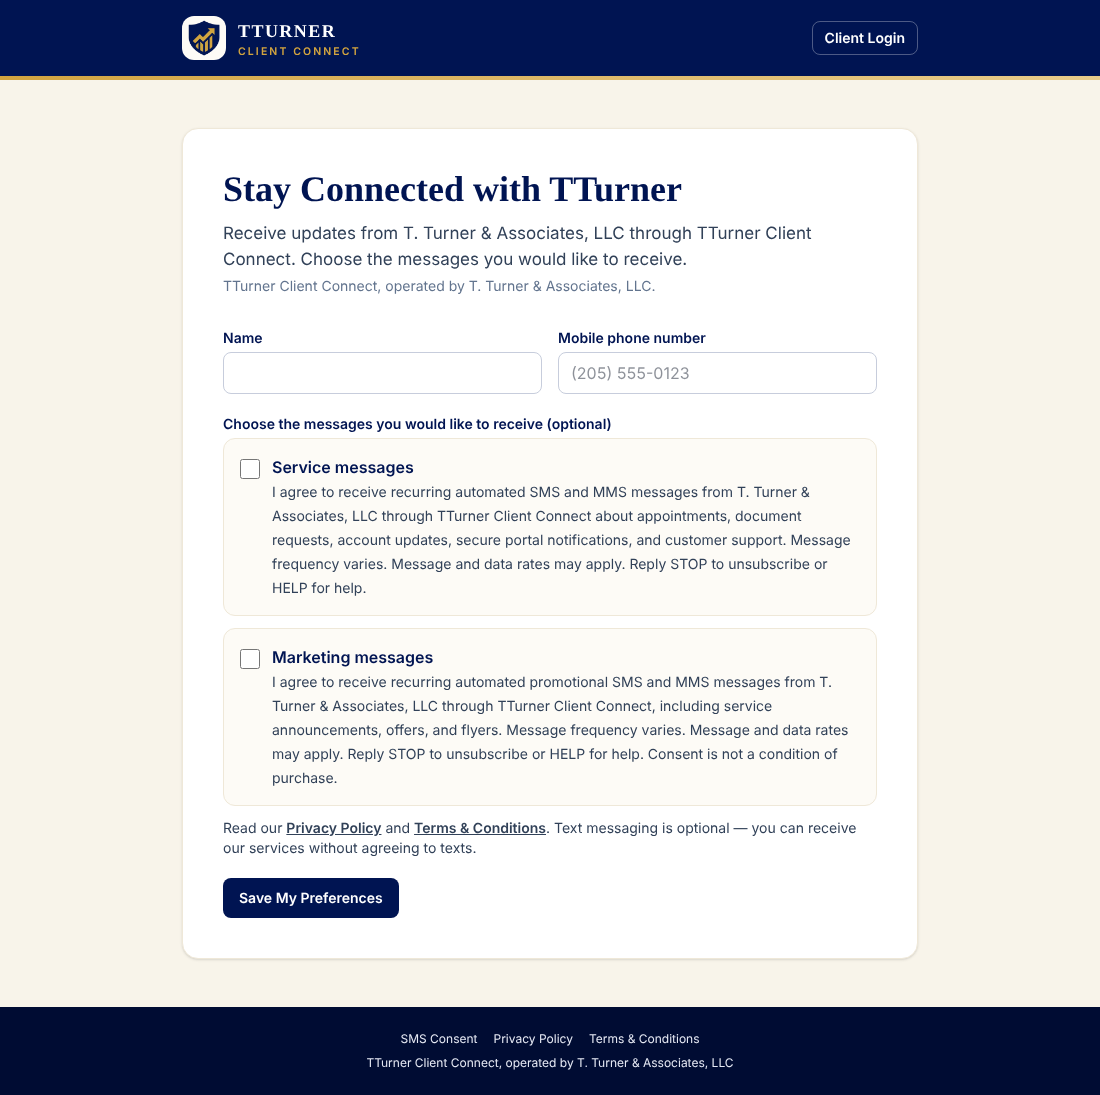
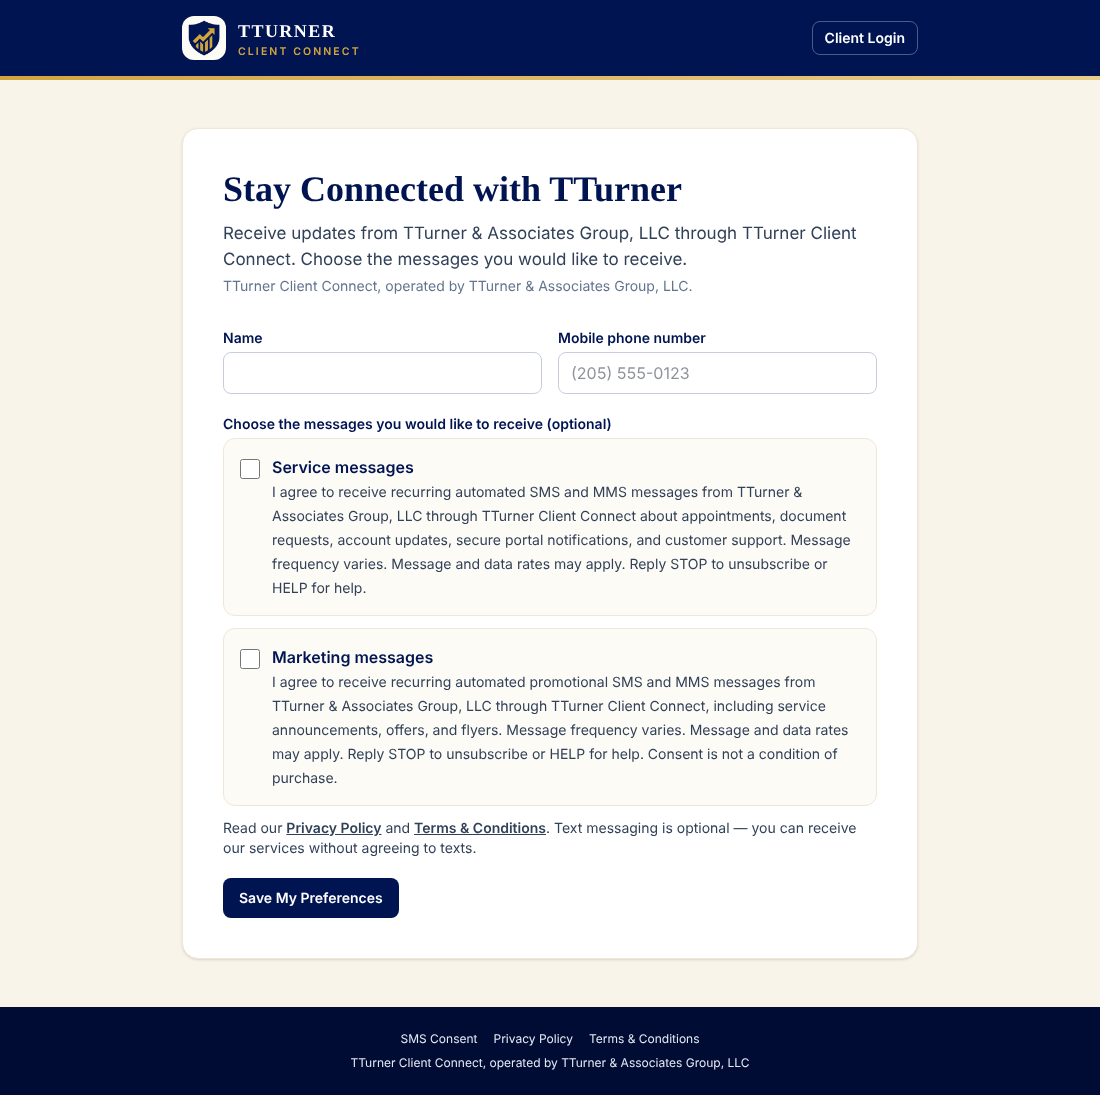
Use the registered legal name TTurner & Associates Group, LLC
The owner confirmed this is the name on the EIN and Secretary of State
filing. The platform is identified as "TTurner Client Connect, operated by
TTurner & Associates Group, LLC" on the consent form, Privacy Policy,
Terms and emails; text-message prefixes use "TTurner & Associates Group".
The SMS consent wording changed, so its version moves to v2, and the
opt-in proof screenshot is regenerated.

Claude-Session: https://claude.ai/code/session_01PcrZVDE3dtH8yXi9eSsfa3

diff --git a/tests/staff-invites.test.ts b/tests/staff-invites.test.ts
@@ -28,7 +28,7 @@ beforeEach(async () => {
   sent = [];
   reply = () => new Response(JSON.stringify({ id: `re_${++n}` }), { status: 200 });
   vi.stubEnv("RESEND_API_KEY", "re_test_key");
-  vi.stubEnv("EMAIL_FROM_ADDRESS", "T. Turner & Associates, LLC <invites@mail.example.com>");
+  vi.stubEnv("EMAIL_FROM_ADDRESS", "TTurner & Associates Group, LLC <invites@mail.example.com>");
   vi.stubEnv("APP_URL", "https://crm.example.com");
   vi.stubGlobal("fetch", async (url: string, init: RequestInit) => {
     await new Promise((r) => setTimeout(r, 5));
@@ -51,10 +51,10 @@ describe("staff invitation emails", () => {
     const mail = sent[0];
     expect(mail.url).toBe("https://api.resend.com/emails");
     expect(mail.body.to).toEqual(["daria.new@example.com"]);
-    expect(mail.body.from).toContain("T. Turner & Associates, LLC");
+    expect(mail.body.from).toContain("TTurner & Associates Group, LLC");
     expect(mail.body.subject).toBe("Your staff invitation to TTurner Client Connect");
     expect(mail.body.html).toContain("Create Your Staff Account");
-    expect(mail.body.html).toContain("T. Turner &amp; Associates, LLC");
+    expect(mail.body.html).toContain("TTurner &amp; Associates Group, LLC");
     expect(mail.body.html).toContain("https://crm.example.com/staff/invite/");
     expect(mail.body.tags).toEqual([{ name: "category", value: "staff_invitation" }]);
     expect(mail.headers["Idempotency-Key"]).toBe(`staff-invite/${out.inviteId}`);
@@ -279,6 +279,6 @@ describe("staff invitation emails", () => {
     expect(mail.html).toContain("Daria &lt;b&gt;");
     expect(mail.html).toContain("Create Your Staff Account");
     expect(mail.text).toContain("November 5, 2026");
-    expect(mail.text).toContain("T. Turner & Associates, LLC");
+    expect(mail.text).toContain("TTurner & Associates Group, LLC");
   });
 });

diff --git a/src/lib/business.ts b/src/lib/business.ts
@@ -4,13 +4,13 @@
 // items still need confirmation.
 
 export const BUSINESS = {
-  // Existing legal business name (confirmed by the owner).
-  legalName: "T. Turner & Associates, LLC",
-  // How messages identify the sender (e.g. "T. Turner & Associates: …").
-  shortName: "T. Turner & Associates",
+  // Legal business name as on the EIN and Secretary of State filing (confirmed by the owner).
+  legalName: "TTurner & Associates Group, LLC",
+  // How messages identify the sender (e.g. "TTurner & Associates Group: …").
+  shortName: "TTurner & Associates Group",
   platformName: "TTurner Client Connect",
   // How the platform is identified on the consent form, Privacy Policy and Terms.
-  platformIdentity: "TTurner Client Connect, operated by T. Turner & Associates, LLC",
+  platformIdentity: "TTurner Client Connect, operated by TTurner & Associates Group, LLC",
   officePhoneDisplay: "205-659-5448",
   officePhoneTel: "+12056595448",
 } as const;
@@ -20,7 +20,7 @@ export const LEGAL_EFFECTIVE_DATE = "October 29, 2026";
 
 // Exact consent wording. Any change must get a new version so stored
 // consents always point at the text the person actually saw.
-export const SMS_CONSENT_VERSION = "sms-consent-2026-10-29-v1";
+export const SMS_CONSENT_VERSION = "sms-consent-2026-10-29-v2";
 
 export const SMS_CONSENT_TEXT = {
   SERVICE: `I agree to receive recurring automated SMS and MMS messages from ${BUSINESS.legalName} through ${BUSINESS.platformName} about appointments, document requests, account updates, secure portal notifications, and customer support. Message frequency varies. Message and data rates may apply. Reply STOP to unsubscribe or HELP for help.`,

diff --git a/src/app/client/(secure)/messages/page.tsx b/src/app/client/(secure)/messages/page.tsx
@@ -41,7 +41,7 @@ export default async function PortalMessages({ searchParams }: { searchParams: P
 
   return (
     <>
-      <PageHeader title="Messages" subtitle="Secure messages with T. Turner & Associates." />
+      <PageHeader title="Messages" subtitle="Secure messages with TTurner & Associates Group." />
       <div className="grid gap-4 lg:grid-cols-3">
         <div className="space-y-2">
           <Link href={`/client/messages${q}`} className="block rounded-lg border border-navy-100 bg-white px-3 py-2 text-sm font-semibold text-navy-900">+ New message</Link>
@@ -73,7 +73,7 @@ export default async function PortalMessages({ searchParams }: { searchParams: P
                       {m.attachments.map((a) => (
                         <a key={a.id} className={`mt-1 block text-sm underline ${mine ? "text-gold-300" : ""}`} href={`/api/documents/${downloadToken(a.id, { portalUserId: user.id })}`} target="_blank" rel="noopener">📎 {a.title}</a>
                       ))}
-                      <p className={`mt-1 text-xs ${mine ? "text-navy-100" : "text-slate-500"}`}>{mine ? m.portalAuthor?.name ?? "You" : m.staffAuthor?.name ?? "T. Turner & Associates"} · {fmtDateTime(m.createdAt)}</p>
+                      <p className={`mt-1 text-xs ${mine ? "text-navy-100" : "text-slate-500"}`}>{mine ? m.portalAuthor?.name ?? "You" : m.staffAuthor?.name ?? "TTurner & Associates Group"} · {fmtDateTime(m.createdAt)}</p>
                     </li>
                   );
                 })}

diff --git a/src/lib/services/messaging.ts b/src/lib/services/messaging.ts
@@ -85,7 +85,7 @@ export async function staffSendMessage(
   const message = await prisma.$transaction(async (tx) => {
     if (!conversationId) {
       const convo = await tx.conversation.create({
-        data: { clientId: input.clientId, subject: input.subject?.trim().slice(0, 200) || "Message from T. Turner & Associates", assignedToId: actor.id, periodId: input.periodId ?? null },
+        data: { clientId: input.clientId, subject: input.subject?.trim().slice(0, 200) || "Message from TTurner & Associates Group", assignedToId: actor.id, periodId: input.periodId ?? null },
       });
       conversationId = convo.id;
     }
@@ -120,7 +120,7 @@ export async function staffSendMessage(
   } else if (input.channel === "PORTAL") {
     await notifyMessage(input.clientId, message.id);
   } else if (input.channel === "EMAIL") {
-    const ok = await sendTransactionalEmail(client.emailNormalized!, input.subject?.trim() || "A message from T. Turner & Associates", body);
+    const ok = await sendTransactionalEmail(client.emailNormalized!, input.subject?.trim() || "A message from TTurner & Associates Group", body);
     await prisma.message.update({ where: { id: message.id }, data: ok ? { status: "PROVIDER_ACCEPTED" } : { status: "FAILED", errorDetail: "Email provider rejected the message" } });
   } else {
     // Text replies go through the campaign/messaging queue in the next stage;

diff --git a/src/app/(auth)/welcome/page.tsx b/src/app/(auth)/welcome/page.tsx
@@ -11,7 +11,7 @@ export default async function Welcome() {
   return (
     <>
       <h1 className="text-center text-2xl font-bold sm:text-3xl">Welcome to TTurner Client Connect</h1>
-      <p className="mb-7 mt-2 text-center text-[15px] text-slate-600">Secure communication with T. Turner &amp; Associates, LLC. Please choose how you&apos;re signing in.</p>
+      <p className="mb-7 mt-2 text-center text-[15px] text-slate-600">Secure communication with TTurner &amp; Associates Group, LLC. Please choose how you&apos;re signing in.</p>
       <div className="space-y-4">
         <Link
           href={client ? "/client" : "/client/login"}
@@ -31,7 +31,7 @@ export default async function Welcome() {
           <Briefcase className="size-8 shrink-0 text-navy-800" aria-hidden />
           <span className="flex-1">
             <span className="block font-serif text-xl font-semibold">{staff ? "Continue to the CRM" : "Staff Login"}</span>
-            <span className="text-sm text-slate-600">For T. Turner &amp; Associates team members</span>
+            <span className="text-sm text-slate-600">For TTurner &amp; Associates Group team members</span>
           </span>
           <span aria-hidden className="text-2xl">→</span>
         </Link>

diff --git a/src/components/portal/home-view.tsx b/src/components/portal/home-view.tsx
@@ -36,7 +36,7 @@ export function PortalHomeView({ data, linkFor, q, readOnly }: { data: Home; lin
         <Link href={`/client/bookkeeping${q}`} className="rounded-2xl border border-ivory-200 border-t-4 border-t-gold-500 bg-white p-4 shadow-sm"><p className="text-sm text-slate-600">Requested from you</p><p className="font-serif text-3xl font-bold text-navy-900">{data.requests.length}</p></Link>
         <Link href={`/client/contracts${q}`} className="rounded-2xl border border-ivory-200 border-t-4 border-t-gold-500 bg-white p-4 shadow-sm"><p className="text-sm text-slate-600">To sign or complete</p><p className="font-serif text-3xl font-bold text-navy-900">{data.contracts.length + data.signatures.length}</p></Link>
       </div>
-      {nothing && <EmptyState title="You're all caught up">New messages, documents and requests from T. Turner &amp; Associates will appear here.</EmptyState>}
+      {nothing && <EmptyState title="You're all caught up">New messages, documents and requests from TTurner &amp; Associates Group will appear here.</EmptyState>}
       <div className="grid gap-4 lg:grid-cols-2">
         {data.updates.length > 0 && (
           <Card title="Updates & announcements" className="lg:col-span-2">

diff --git a/src/lib/services/notifications.ts b/src/lib/services/notifications.ts
@@ -26,10 +26,10 @@ export function notificationText(kind: string) {
   const line = TEXT[kind] ?? "There's something new in your client portal";
   return {
     heading: line,
-    line: `${line} in your T. Turner & Associates client portal.`,
-    subject: `${line} — T. Turner & Associates`,
-    body: `${line} in your T. Turner & Associates client portal.\n\nSign in securely to view it: ${appUrl()}/client\n\nFor your privacy, we never include account details or tax documents in emails or texts.`,
-    sms: `T. Turner & Associates: ${line} in your client portal. Sign in: ${appUrl()}/client Reply STOP to opt out, HELP for help.`,
+    line: `${line} in your TTurner & Associates Group client portal.`,
+    subject: `${line} — TTurner & Associates Group`,
+    body: `${line} in your TTurner & Associates Group client portal.\n\nSign in securely to view it: ${appUrl()}/client\n\nFor your privacy, we never include account details or tax documents in emails or texts.`,
+    sms: `TTurner & Associates Group: ${line} in your client portal. Sign in: ${appUrl()}/client Reply STOP to opt out, HELP for help.`,
   };
 }
 

diff --git a/src/app/client/(public)/layout.tsx b/src/app/client/(public)/layout.tsx
@@ -8,7 +8,7 @@ export default function PortalPublicLayout({ children }: { children: React.React
         <Image src="/brand/logo-full.png" alt="TTurner Client Connect" width={640} height={545} priority className="mx-auto mb-2 h-auto w-48" />
         <p className="mb-6 text-center text-sm font-semibold tracking-wide text-navy-800">SECURE CLIENT PORTAL</p>
         <div className="rounded-2xl border border-navy-100 border-t-4 border-t-gold-500 bg-white p-6 shadow-sm sm:p-8">{children}</div>
-        <p className="mt-6 text-center text-xs text-slate-500">T. Turner &amp; Associates, LLC · Your information is encrypted in transit and access is limited to your accounts.</p>
+        <p className="mt-6 text-center text-xs text-slate-500">TTurner &amp; Associates Group, LLC · Your information is encrypted in transit and access is limited to your accounts.</p>
         <LegalLinks className="mt-3" />
       </div>
     </main>

diff --git a/src/lib/email.ts b/src/lib/email.ts
@@ -74,7 +74,7 @@ export function brandedNoticeHtml(heading: string, line: string, buttonLabel: st
 }
 
 export function brandedEmailHtml(input: { heading: string; paragraphs: string[]; button: { label: string; url: string }; note?: string; footer?: string }): string {
-  const { heading, paragraphs, button, note, footer = "T. Turner & Associates, LLC" } = input;
+  const { heading, paragraphs, button, note, footer = "TTurner & Associates Group, LLC" } = input;
   return `<!doctype html><html><body style="margin:0;background:#f8f4ea;font-family:Arial,Helvetica,sans-serif;color:#1c2333">
 <table role="presentation" width="100%" cellpadding="0" cellspacing="0"><tr><td align="center" style="padding:28px 12px">
 <table role="presentation" width="100%" cellpadding="0" cellspacing="0" style="max-width:560px;background:#ffffff;border-radius:10px;overflow:hidden;border:1px solid #efe8d8">

diff --git a/src/app/client/(secure)/contracts/[id]/page.tsx b/src/app/client/(secure)/contracts/[id]/page.tsx
@@ -24,7 +24,7 @@ export default async function PortalContract({ params }: { params: Promise<{ id:
       ) : (
         <>
           <p className="mb-3 text-sm text-slate-700">
-            This form is provided securely by Jotform on behalf of T. Turner &amp; Associates. It will show as complete here once Jotform confirms your submission.
+            This form is provided securely by Jotform on behalf of TTurner &amp; Associates Group. It will show as complete here once Jotform confirms your submission.
             Trouble with the form below? <a className="font-semibold underline" href={url} target="_blank" rel="noopener">Open it in a new tab (Jotform)</a>.
           </p>
           <iframe title={contract.title} src={url} className="h-[75vh] w-full rounded-xl border border-navy-100 bg-white" allow="geolocation 'none'; camera 'none'; microphone 'none'" />

diff --git a/src/app/actions/portal.ts b/src/app/actions/portal.ts
@@ -63,7 +63,7 @@ export async function portalForgotAction(_prev: ActionState, fd: FormData): Prom
       await sendTransactionalEmail(
         reset.user.email,
         "Reset your client portal password",
-        `Use this link within one hour to choose a new password for your T. Turner & Associates client portal:\n${appUrl()}/client/reset-password/${reset.token}\n\nIf you didn't ask for this, you can ignore this email.`,
+        `Use this link within one hour to choose a new password for your TTurner & Associates Group client portal:\n${appUrl()}/client/reset-password/${reset.token}\n\nIf you didn't ask for this, you can ignore this email.`,
       );
     }
     return "If that email has a portal account, a reset link is on its way. Didn't get it? Call our office and we'll help.";

diff --git a/src/components/social/composer.tsx b/src/components/social/composer.tsx
@@ -27,7 +27,7 @@ function Preview({ platform, caption, media }: { platform: SocialPlatform; capti
     <div className={clsx("overflow-hidden rounded-xl border bg-white shadow-sm", platform === "TIKTOK" ? "mx-auto max-w-[220px] border-slate-800 bg-black text-white" : "border-slate-200")}>
       <div className={clsx("flex items-center gap-2 px-3 py-2 text-sm font-semibold", platform === "TIKTOK" && "order-last")}>
         <span className="flex size-7 items-center justify-center rounded-full bg-navy-900 text-[10px] text-gold-500">TT</span>
-        T. Turner &amp; Associates
+        TTurner &amp; Associates Group
       </div>
       {platform === "FACEBOOK" && caption && <p className="whitespace-pre-wrap px-3 pb-2 text-sm">{caption}</p>}
       {visual}
